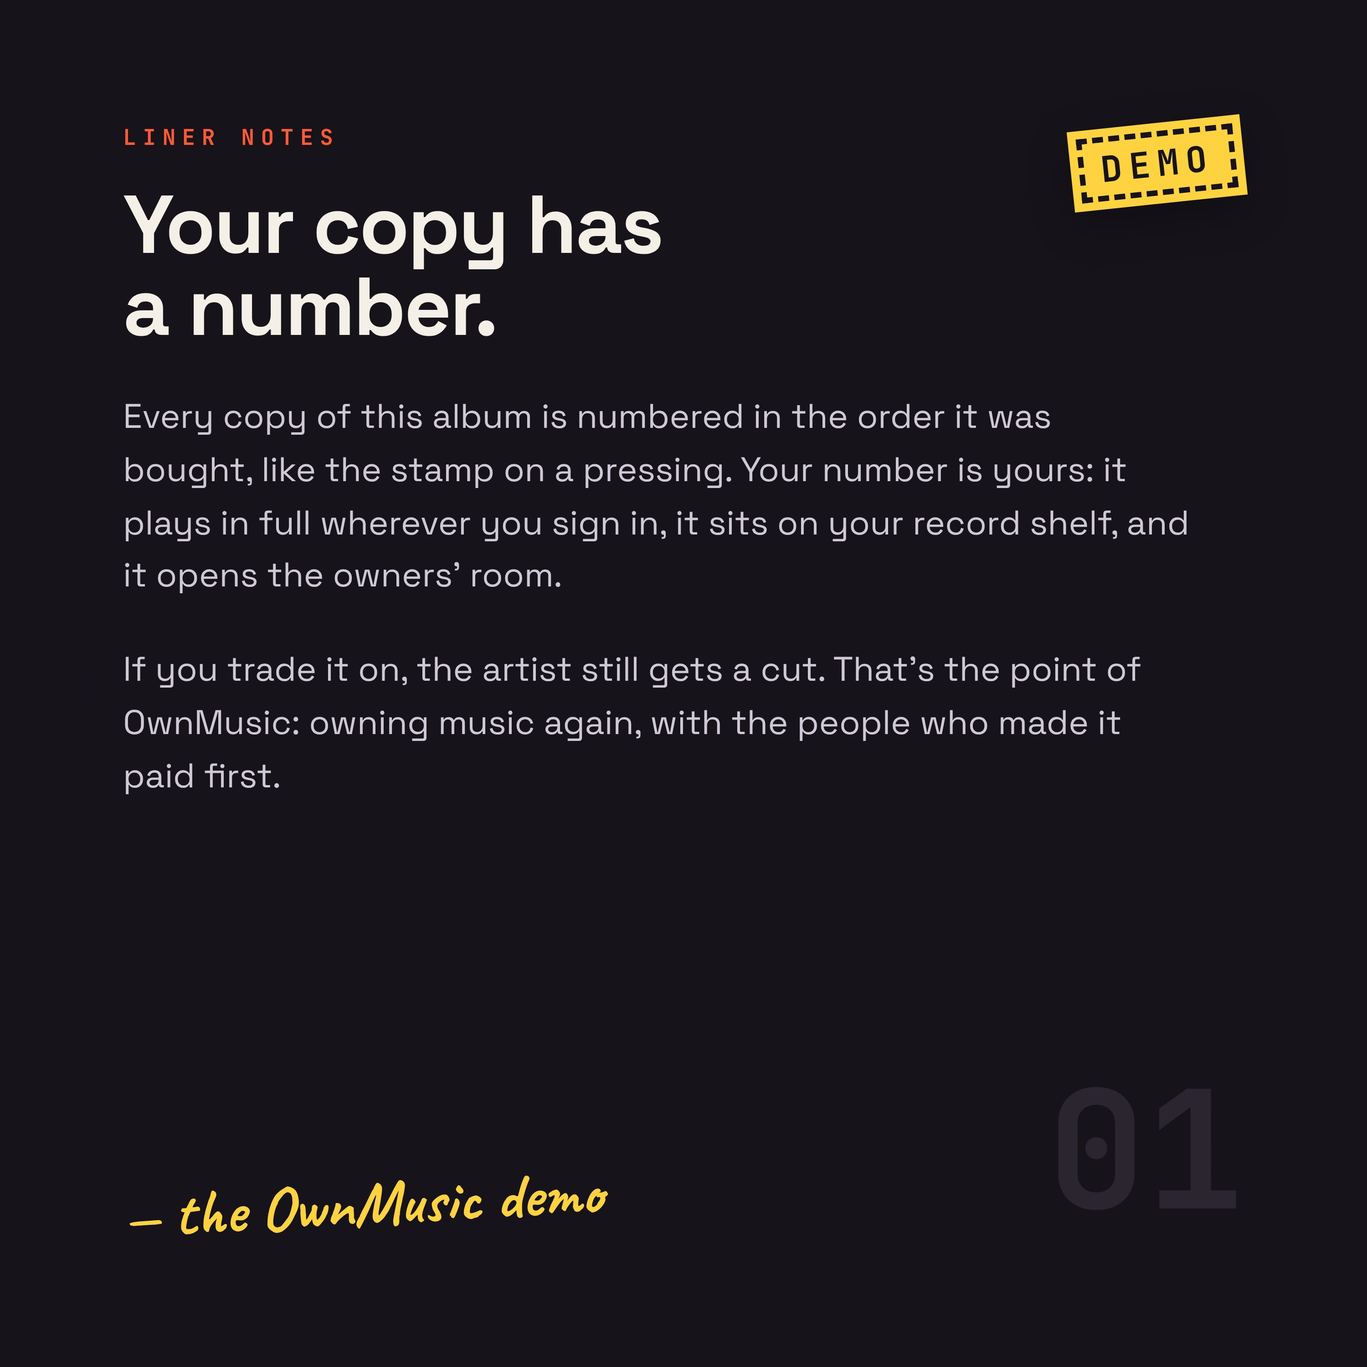
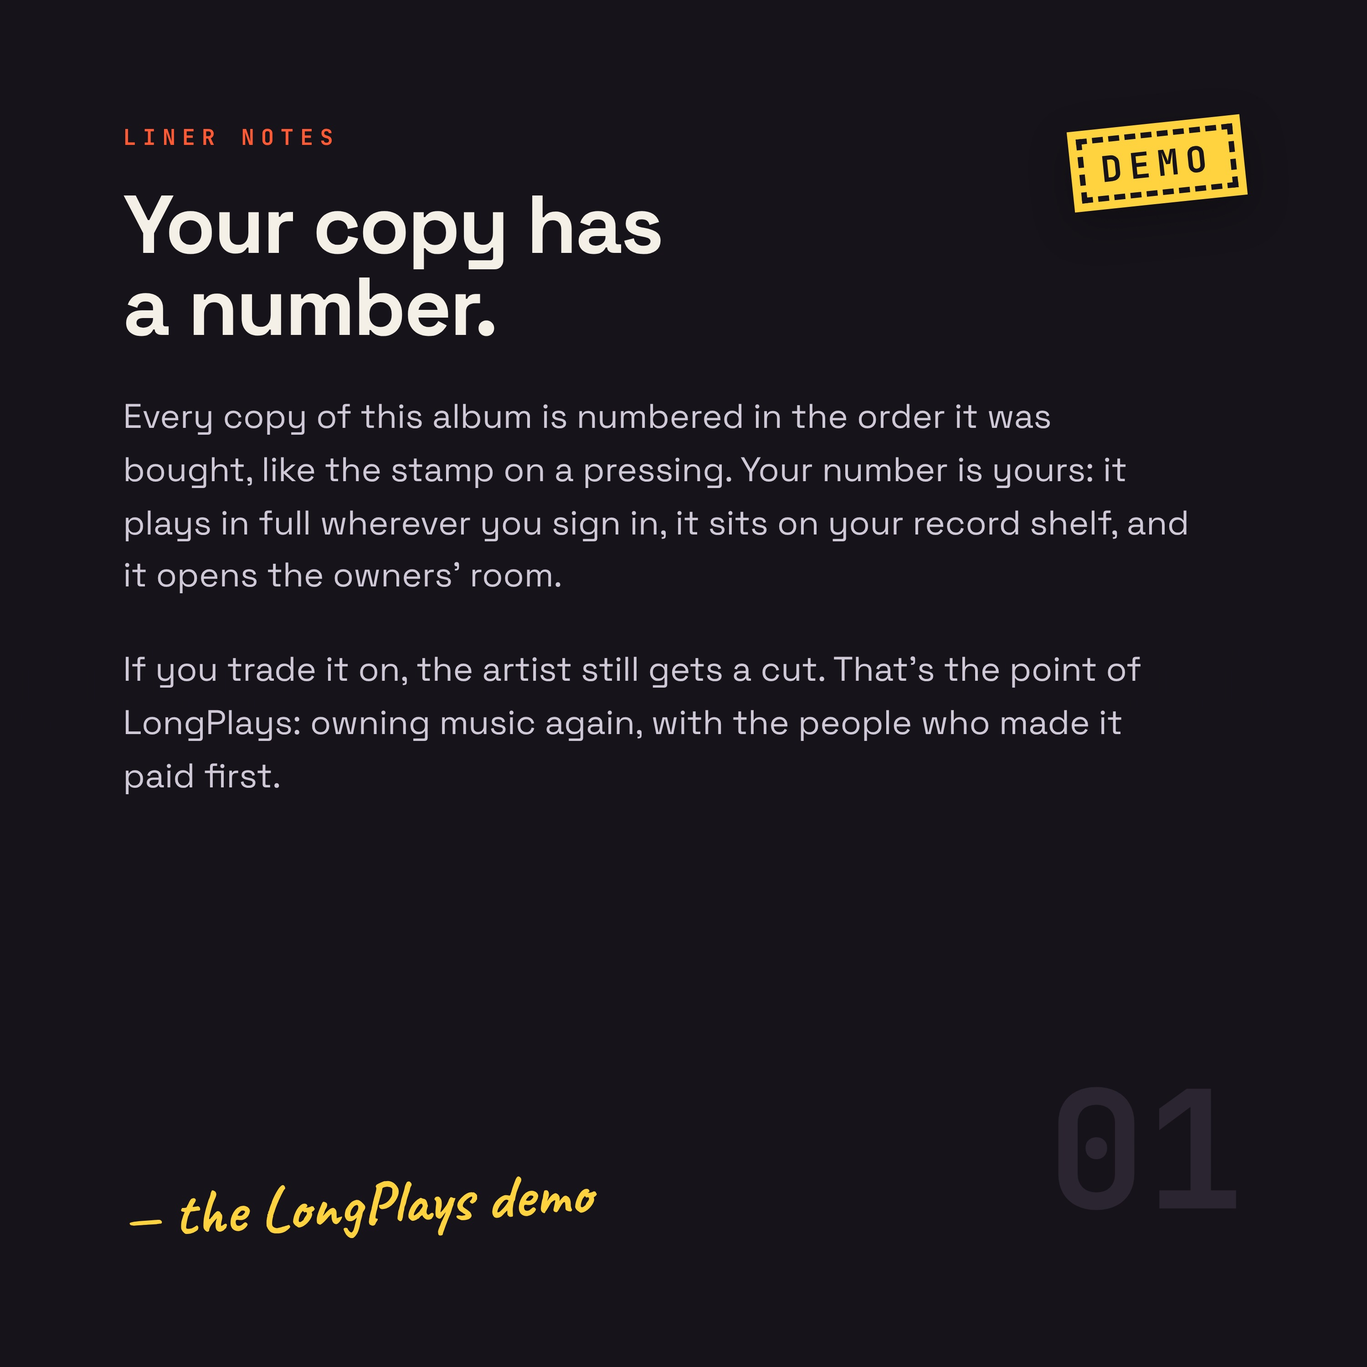
Rename OwnMusic to LongPlays and serve it at longplays.app
Internal names (database file, escrow user, wallet salt) stay as they
were so existing data and fans' wallet addresses don't change. The demo
seed now refreshes its wording and redrawn artwork in place.

Claude-Session: https://claude.ai/code/session_01WRo4DvcQyyiLHpz53ZZQHD

diff --git a/public/app.js b/public/app.js
@@ -198,7 +198,7 @@ async function openAlbum(id, pane = "tracks") {
         <p class="eyebrow">${a.demo ? "Demo album" : "Album"} · ${plural(a.tracks.length, "track")}</p>
         <h2 id="sheet-title">${esc(a.title)}</h2>
         <p class="by">${esc(a.artist)}</p>
-        ${a.demo ? `<p class="demo-note">This is a demo release by a demo artist, here so you can try OwnMusic. Add a free copy, no subscription needed, and it lands on your record shelf and opens the owners' room.</p>` : ""}
+        ${a.demo ? `<p class="demo-note">This is a demo release by a demo artist, here so you can try LongPlays. Add a free copy, no subscription needed, and it lands on your record shelf and opens the owners' room.</p>` : ""}
         ${justBought === a.id ? `<div class="next-steps">
           <strong>${copyNo(a.myCopy)} is yours. Every track now plays in full.</strong>
           <button class="btn btn-primary" data-play="${a.tracks[0]?.id}">▶ Play the full album</button>
@@ -408,7 +408,7 @@ async function loadMarket(a) {
   const mine = m.myCopy;
   const others = m.listings.filter((l) => !l.mine);
   $("#market").innerHTML = `
-    <p class="muted small market-intro">Copies can change hands, but only here. Sell yours, or trade up to a lower number by offering a swap plus a top-up. Every trade sends ${config.resaleArtistPercent}% to ${esc(a.artist)} and ${config.resalePlatformPercent}% to OwnMusic.${a.demo ? " Demo money only." : ""}</p>
+    <p class="muted small market-intro">Copies can change hands, but only here. Sell yours, or trade up to a lower number by offering a swap plus a top-up. Every trade sends ${config.resaleArtistPercent}% to ${esc(a.artist)} and ${config.resalePlatformPercent}% to LongPlays.${a.demo ? " Demo money only." : ""}</p>
     ${mine ? `
       <div class="panel market-mine">
         <div class="market-mine-head">
@@ -444,7 +444,7 @@ async function loadMarket(a) {
     const preview = () => {
       const price = Math.round(Number(form.price.value) * 100) || 0;
       const c = resaleCut(price);
-      $("#list-preview").textContent = `You get ${gbp(c.seller)} · ${gbp(c.artist)} to ${a.artist} · ${gbp(c.platform)} to OwnMusic`;
+      $("#list-preview").textContent = `You get ${gbp(c.seller)} · ${gbp(c.artist)} to ${a.artist} · ${gbp(c.platform)} to LongPlays`;
     };
     form.addEventListener("input", preview);
     preview();
@@ -836,7 +836,7 @@ async function plan() {
           <li><span>Spent on the market</span><span class="r">${gbp(acc.trading.spent)}</span></li>
           <li><span>Earned selling copies</span><span class="r">${gbp(acc.trading.earned)}</span></li>` : ""}
         </ul>
-        ${acc.wallet ? `<p class="muted small wallet">Your copies are NFTs, kept for you in wallet <a href="${nftInfo?.explorer}/address/${acc.wallet}" target="_blank" rel="noopener"><code>${acc.wallet.slice(0, 6)}…${acc.wallet.slice(-4)}</code></a>. Only OwnMusic can move them, so every trade pays the artist.</p>` : ""}
+        ${acc.wallet ? `<p class="muted small wallet">Your copies are NFTs, kept for you in wallet <a href="${nftInfo?.explorer}/address/${acc.wallet}" target="_blank" rel="noopener"><code>${acc.wallet.slice(0, 6)}…${acc.wallet.slice(-4)}</code></a>. Only LongPlays can move them, so every trade pays the artist.</p>` : ""}
       </div>
     </div>
     ${acc.purchases.length ? `
@@ -883,7 +883,7 @@ async function payouts() {
         <div><strong>${gbp(recording)}</strong><i style="background:var(--accent)"></i>Recording</div>
         <div><strong>${gbp(publishing)}</strong><i class="i-song"></i>Songwriting</div>
         <div><strong>${gbp(vat)}</strong><i style="background:var(--vat)"></i>VAT</div>
-        <div><strong>${gbp(platform)}</strong><i style="background:var(--accent-2)"></i>OwnMusic</div>
+        <div><strong>${gbp(platform)}</strong><i style="background:var(--accent-2)"></i>LongPlays</div>
       </div>
     </div>
     <h2 style="margin:32px 0 0">${esc(monthName(p.month))}</h2>
@@ -907,7 +907,7 @@ async function payouts() {
       <ul class="rows">${p.rightsHolders.map((h) => `
         <li><span><strong>${esc(h.name)}</strong> <span class="muted small">· ${h.role === "recording" ? "recording" : "songwriting & publishing"}</span></span><span class="r">${gbp(h.amount)}</span></li>`).join("")}
       </ul>` : ""}
-    <p class="muted small" style="margin-top:14px">When fans trade copies, ${config.resaleArtistPercent}% of the price goes to the release's rights holders and ${config.resalePlatformPercent}% to OwnMusic${p.resaleFees ? ` (${gbp(p.resaleFees)} this month)` : ""}. The seller gets the rest.</p>
+    <p class="muted small" style="margin-top:14px">When fans trade copies, ${config.resaleArtistPercent}% of the price goes to the release's rights holders and ${config.resalePlatformPercent}% to LongPlays${p.resaleFees ? ` (${gbp(p.resaleFees)} this month)` : ""}. The seller gets the rest.</p>
     <p class="muted small" style="margin-top:8px">Subscription money for credits nobody has spent yet is held. It reaches an artist when a fan uses the credit on their album.</p>`;
 }
 

diff --git a/src/demo.ts b/src/demo.ts
@@ -2,7 +2,7 @@ import fs from "node:fs";
 import path from "node:path";
 import crypto from "node:crypto";
 import { AUDIO_DIR, type DB } from "./db.js";
-import { addArtwork, type ArtworkKind } from "./artwork.js";
+import { addArtwork, imageSize, type ArtworkKind } from "./artwork.js";
 
 // A clearly labelled demo release, so anyone visiting the demo can try the whole flow:
 // preview, own a copy, see it on their record shelf, and get into the owners' room.
@@ -10,10 +10,19 @@ export const DEMO_ARTIST = "The Test Pressings";
 export const DEMO_ALBUM = "Ready for Release";
 export const DEMO_TRACK = "Play Me First";
 const SOURCE = path.resolve("demo", "one-i-can-release.m4a");
+const DEMO_BIO =
+  "A demo artist, not a real act. This release is here so you can try LongPlays end to end: preview it, own a numbered copy, and watch it land on your record shelf. No real money changes hands.";
+const DEMO_CREDITS = "Demo album for the LongPlays proof of concept.\nTrack supplied by Ben. All rights reserved.";
 
 /** Seeds the demo artist and album once. Safe to call on every start. */
 export function seedDemo(db: DB) {
-  if (db.prepare(`SELECT 1 FROM artists WHERE demo = 1`).get() || !fs.existsSync(SOURCE)) return;
+  if (db.prepare(`SELECT 1 FROM artists WHERE demo = 1`).get()) {
+    // Keep an already seeded demo's wording current (e.g. after the rename to LongPlays).
+    db.prepare(`UPDATE artists SET bio = ? WHERE demo = 1`).run(DEMO_BIO);
+    db.prepare(`UPDATE albums SET credits = ? WHERE artist_id IN (SELECT id FROM artists WHERE demo = 1)`).run(DEMO_CREDITS);
+    return;
+  }
+  if (!fs.existsSync(SOURCE)) return;
   const file = "demo-one-i-can-release.m4a";
   fs.copyFileSync(SOURCE, path.join(AUDIO_DIR, file));
   db.transaction(() => {
@@ -25,14 +34,14 @@ export function seedDemo(db: DB) {
       db.prepare(`INSERT INTO artists (user_id, name, bio, verified, demo) VALUES (?, ?, ?, 1, 1)`).run(
         userId,
         DEMO_ARTIST,
-        "A demo artist, not a real act. This release is here so you can try OwnMusic end to end: preview it, own a numbered copy, and watch it land on your record shelf. No real money changes hands.",
+        DEMO_BIO,
       ).lastInsertRowid,
     );
     const albumId = Number(
       db.prepare(`INSERT INTO albums (artist_id, title, credits) VALUES (?, ?, ?)`).run(
         artistId,
         DEMO_ALBUM,
-        "Demo album for the OwnMusic proof of concept.\nTrack supplied by Ben. All rights reserved.",
+        DEMO_CREDITS,
       ).lastInsertRowid,
     );
     db.prepare(`INSERT INTO tracks (album_id, position, title, audio_file) VALUES (?, 1, ?, ?)`).run(albumId, DEMO_TRACK, file);
@@ -45,17 +54,31 @@ export function seedDemo(db: DB) {
 // The demo album's package: full-resolution front cover, back cover and a booklet page.
 const DEMO_ARTWORK: [string, ArtworkKind][] = [["cover.jpg", "cover"], ["back-cover.jpg", "back"], ["booklet-01.jpg", "booklet"]];
 
-/** Adds the demo artwork once, including to a demo album seeded before artwork existed. */
+/** Adds the demo artwork, including to a demo album seeded before artwork existed, and refreshes it when the files change. */
 export function seedDemoArtwork(db: DB) {
   const album = db
     .prepare(`SELECT al.id FROM albums al JOIN artists ar ON ar.id = al.artist_id WHERE ar.demo = 1 ORDER BY al.id LIMIT 1`)
     .get() as { id: number } | undefined;
-  if (!album || db.prepare(`SELECT 1 FROM artwork WHERE album_id = ?`).get(album.id)) return;
+  if (!album) return;
   for (const [name, kind] of DEMO_ARTWORK) {
     const source = path.resolve("demo", name);
     if (!fs.existsSync(source)) continue;
     const file = `demo-${name}`;
-    fs.copyFileSync(source, path.join(AUDIO_DIR, file));
-    addArtwork(db, album.id, file, kind, kind === "booklet" ? "Booklet page 1" : undefined);
+    const buf = fs.readFileSync(source);
+    const sha256 = crypto.createHash("sha256").update(buf).digest("hex");
+    const existing = db.prepare(`SELECT id, sha256 FROM artwork WHERE album_id = ? AND file = ?`).get(album.id, file) as
+      | { id: number; sha256: string }
+      | undefined;
+    if (existing?.sha256 === sha256) continue;
+    fs.writeFileSync(path.join(AUDIO_DIR, file), buf);
+    if (!existing) {
+      addArtwork(db, album.id, file, kind, kind === "booklet" ? "Booklet page 1" : undefined);
+      continue;
+    }
+    // The demo artwork was redrawn: refresh it in place, and pin the new version if IPFS is on.
+    const size = imageSize(buf);
+    db.prepare(`UPDATE artwork SET bytes = ?, width = ?, height = ?, sha256 = ?, ipfs_cid = NULL WHERE id = ?`).run(
+      buf.length, size?.width ?? null, size?.height ?? null, sha256, existing.id,
+    );
   }
 }

diff --git a/src/nft.ts b/src/nft.ts
@@ -10,15 +10,15 @@ import { listArtwork } from "./artwork.js";
 // minting new copies and moving tokens when copies change hands on the market.
 //
 // Wallets are hidden from fans. Each fan gets an address derived from the operator key, and
-// only the operator (OwnMusic) can move tokens, so trades can't skip the market and its cut.
+// only the operator (LongPlays) can move tokens, so trades can't skip the market and its cut.
 
 const RPC_URL = process.env.NFT_RPC_URL ?? "https://sepolia.base.org";
 const OPERATOR_KEY = process.env.NFT_OPERATOR_KEY;
-const PUBLIC_URL = (process.env.PUBLIC_URL ?? "https://ownmusic-production.up.railway.app").replace(/\/$/, "");
+const PUBLIC_URL = (process.env.PUBLIC_URL ?? "https://longplays.app").replace(/\/$/, "");
 export const EXPLORER = process.env.NFT_EXPLORER ?? "https://sepolia.basescan.org";
 export const CHAIN_NAME = process.env.NFT_CHAIN_NAME ?? "Base Sepolia (testnet)";
 
-const artifact = JSON.parse(fs.readFileSync(path.resolve("contracts", "OwnMusicCopies.json"), "utf8")) as { abi: object[]; bytecode: string };
+const artifact = JSON.parse(fs.readFileSync(path.resolve("contracts", "LongPlaysCopies.json"), "utf8")) as { abi: object[]; bytecode: string };
 
 export const nftEnabled = () => !!OPERATOR_KEY;
 
@@ -78,7 +78,7 @@ export function tokenMetadata(db: DB, tokenId: number) {
   const front = art.find((a) => a.kind === "cover");
   return {
     name: `${c.title} ${no}`,
-    description: `Copy ${no} of "${c.title}" by ${c.artist} on OwnMusic. It plays in full for whoever owns it and can only change hands on the OwnMusic market.${c.demo ? " This is a demo release." : ""}`,
+    description: `Copy ${no} of "${c.title}" by ${c.artist} on LongPlays. It plays in full for whoever owns it and can only change hands on the LongPlays market.${c.demo ? " This is a demo release." : ""}`,
     image: front?.uri ?? (c.hasCover ? `${PUBLIC_URL}/api/albums/${c.albumId}/cover` : `${PUBLIC_URL}/icons/icon-512.png`),
     external_url: `${PUBLIC_URL}/`,
     attributes: [
@@ -119,7 +119,7 @@ export function startNftWorker(db: DB, intervalMs = 4000) {
         await deployed.waitForDeployment();
         address = await deployed.getAddress();
         setSetting(db, "nft_contract", address);
-        console.log("nft: deployed OwnMusicCopies at", address);
+        console.log("nft: deployed LongPlaysCopies at", address);
       }
       const contract = new Contract(address, artifact.abi, operator);
       // One copy at a time keeps nonces simple; the oldest out-of-step copy goes first.

diff --git a/public/index.html b/public/index.html
@@ -5,7 +5,7 @@
   <meta name="viewport" content="width=device-width, initial-scale=1, viewport-fit=cover" />
   <meta name="theme-color" content="#0e0c12" media="(prefers-color-scheme: dark)" />
   <meta name="theme-color" content="#f5f0e6" media="(prefers-color-scheme: light)" />
-  <title>OwnMusic</title>
+  <title>LongPlays</title>
   <link rel="preconnect" href="https://fonts.googleapis.com" />
   <link rel="preconnect" href="https://fonts.gstatic.com" crossorigin />
   <link href="https://fonts.googleapis.com/css2?family=Space+Grotesk:wght@400;500;600;700&family=JetBrains+Mono:wght@500;700&display=swap" rel="stylesheet" />
@@ -14,15 +14,15 @@
   <link rel="apple-touch-icon" href="/icons/apple-touch-icon.png" />
   <meta name="apple-mobile-web-app-capable" content="yes" />
   <meta name="mobile-web-app-capable" content="yes" />
-  <meta name="apple-mobile-web-app-title" content="OwnMusic" />
+  <meta name="apple-mobile-web-app-title" content="LongPlays" />
   <meta name="apple-mobile-web-app-status-bar-style" content="black-translucent" />
-  <meta name="application-name" content="OwnMusic" />
+  <meta name="application-name" content="LongPlays" />
   <meta name="description" content="Own your music again. Albums you keep, streamed anywhere, with 90% going to the artist." />
   <link rel="stylesheet" href="/style.css" />
 </head>
 <body>
   <header class="top">
-    <a class="logo" href="/" aria-label="OwnMusic home"><span class="logo-disc" aria-hidden="true"></span>OwnMusic</a>
+    <a class="logo" href="/" aria-label="LongPlays home"><span class="logo-disc" aria-hidden="true"></span>LongPlays</a>
     <div id="who"></div>
   </header>
 

diff --git a/src/db.ts b/src/db.ts
@@ -6,6 +6,7 @@ export const DATA_DIR = process.env.DATA_DIR ?? path.resolve("data");
 export const AUDIO_DIR = path.join(DATA_DIR, "audio");
 fs.mkdirSync(AUDIO_DIR, { recursive: true });
 
+// Internal names (this file, the escrow user, the wallet salt) keep the old OwnMusic name so existing data and wallets stay valid.
 // v2: albums + subscriptions. Earlier per-track demo data lives in ownmusic.db and is left alone.
 export function openDb(file = path.join(DATA_DIR, "ownmusic-v2.db")) {
   const db = new Database(file);
@@ -113,7 +114,7 @@ export function openDb(file = path.join(DATA_DIR, "ownmusic-v2.db")) {
   const copyCols = db.prepare(`PRAGMA table_info(copies)`).all() as { name: string }[];
   if (!copyCols.some((c) => c.name === "first_owner_id")) db.exec(`ALTER TABLE copies ADD COLUMN first_owner_id INTEGER REFERENCES users(id)`);
   // Owners can sell a copy outright, or offer it as a swap for another number of the same album
-  // plus a cash top-up. Every trade goes through OwnMusic so the artist and platform cut is always taken.
+  // plus a cash top-up. Every trade goes through LongPlays so the artist and platform cut is always taken.
   db.exec(`
     CREATE TABLE IF NOT EXISTS listings (
       id INTEGER PRIMARY KEY,

diff --git a/demo/artwork-source/back.html b/demo/artwork-source/back.html
@@ -15,8 +15,8 @@ li span{font:500 28px 'JetBrains Mono'}
 <h1>Ready for Release</h1><div class="by">The Test Pressings</div>
 <div class="side">SIDE A</div>
 <ol><li>1. Play Me First<span>2:25</span></li></ol>
-<p class="notes">A demo release for the OwnMusic proof of concept. Not a real artist and not a real album: it's here so you can own a numbered copy, see it on your shelf, join the owners' room and trade it.</p>
-<div class="cat">OM-DEMO-001 · DEMO PRESSING<br>Track supplied by Ben. All rights reserved.<br>Code MIT · ownmusic</div>
+<p class="notes">A demo release for the LongPlays proof of concept. Not a real artist and not a real album: it's here so you can own a numbered copy, see it on your shelf, join the owners' room and trade it.</p>
+<div class="cat">LP-DEMO-001 · DEMO PRESSING<br>Track supplied by Ben. All rights reserved.<br>Code MIT · longplays.app</div>
 <div class="code" id="c"></div>
 <div class="demo">DEMO</div><div class="grain"></div>
 <script>const c=document.getElementById('c');[3,1,2,1,3,2,1,1,3,1,2,3,1,2,1,3,1,1,2,3,2,1].forEach((w,i)=>{const b=document.createElement('i');b.style.width=w*3+'px';b.style.height=(i%5?90:110)+'px';b.style.marginRight=(i%2?6:3)+'px';c.appendChild(b)})</script>

diff --git a/scripts/compile-contract.ts b/scripts/compile-contract.ts
@@ -1,4 +1,4 @@
-// Compiles contracts/OwnMusicCopies.sol into contracts/OwnMusicCopies.json (ABI + bytecode).
+// Compiles contracts/LongPlaysCopies.sol into contracts/LongPlaysCopies.json (ABI + bytecode).
 // The JSON is committed, so the server never needs the compiler. Run: npm run contract:compile
 import fs from "node:fs";
 import path from "node:path";
@@ -6,7 +6,7 @@ import { createRequire } from "node:module";
 
 const require = createRequire(import.meta.url);
 const solc = require("solc");
-const file = "OwnMusicCopies.sol";
+const file = "LongPlaysCopies.sol";
 const input = {
   language: "Solidity",
   sources: { [file]: { content: fs.readFileSync(path.resolve("contracts", file), "utf8") } },
@@ -25,9 +25,9 @@ if (errors.length) {
   for (const e of errors) console.error(e.formattedMessage);
   process.exit(1);
 }
-const c = out.contracts[file].OwnMusicCopies;
+const c = out.contracts[file].LongPlaysCopies;
 fs.writeFileSync(
-  path.resolve("contracts", "OwnMusicCopies.json"),
+  path.resolve("contracts", "LongPlaysCopies.json"),
   JSON.stringify({ compiler: solc.version(), abi: c.abi, bytecode: `0x${c.evm.bytecode.object}` }, null, 2) + "\n",
 );
 console.log("compiled", solc.version());

diff --git a/demo/artwork-source/front.html b/demo/artwork-source/front.html
@@ -13,6 +13,6 @@ body{background:#ff5a36}
 .foot{position:absolute;right:52px;bottom:42px;font:700 18px 'JetBrains Mono';letter-spacing:.2em;color:#16131a}
 .demo{right:48px;top:52px}
 </style></head><body><div class="sleeve"></div>
-<div class="rec"><div class="label"><div class="t">TEST PRESSING</div><div class="h1">Ready for<br>Release</div><div class="h2">side A · demo</div><div class="n">OM-DEMO-001 · 33⅓</div><div class="hole"></div></div></div>
+<div class="rec"><div class="label"><div class="t">TEST PRESSING</div><div class="h1">Ready for<br>Release</div><div class="h2">side A · demo</div><div class="n">LP-DEMO-001 · 33⅓</div><div class="hole"></div></div></div>
 <div class="title">Ready for<br>Release</div><div class="by">The Test Pressings</div>
-<div class="demo">DEMO</div><div class="foot">OWNMUSIC</div><div class="grain"></div></body></html>
+<div class="demo">DEMO</div><div class="foot">LONGPLAYS</div><div class="grain"></div></body></html>

diff --git a/demo/artwork-source/booklet.html b/demo/artwork-source/booklet.html
@@ -10,6 +10,6 @@ p{font:400 25px/1.55 'Space Grotesk';color:#cfc8d6;margin-top:30px;max-width:780
 <div class="eye">LINER NOTES</div>
 <h1>Your copy has<br>a number.</h1>
 <p>Every copy of this album is numbered in the order it was bought, like the stamp on a pressing. Your number is yours: it plays in full wherever you sign in, it sits on your record shelf, and it opens the owners' room.</p>
-<p>If you trade it on, the artist still gets a cut. That's the point of OwnMusic: owning music again, with the people who made it paid first.</p>
-<div class="sig">— the OwnMusic demo</div><div class="n">01</div>
+<p>If you trade it on, the artist still gets a cut. That's the point of LongPlays: owning music again, with the people who made it paid first.</p>
+<div class="sig">— the LongPlays demo</div><div class="n">01</div>
 <div class="demo">DEMO</div><div class="grain"></div></body></html>

diff --git a/src/server.ts b/src/server.ts
@@ -209,7 +209,7 @@ app.get("/api/account", auth, (req, res) => {
   res.json({ ...acc, purchases, trading: tradingSummary(db, uid), wallet: walletFor(uid) });
 });
 
-// The market: owners sell or offer swaps, everyone else browses. Only OwnMusic moves copies.
+// The market: owners sell or offer swaps, everyone else browses. Only LongPlays moves copies.
 app.get("/api/albums/:id/market", (req, res) => {
   const uid = Number(req.signedCookies.uid) || 0;
   const albumId = Number(req.params.id);
@@ -380,4 +380,4 @@ app.post("/api/admin/verify", (req, res) => {
 });
 
 const port = Number(process.env.PORT ?? 3000);
-app.listen(port, () => console.log(`OwnMusic on http://localhost:${port}`));
+app.listen(port, () => console.log(`LongPlays on http://localhost:${port}`));

diff --git a/src/artwork.ts b/src/artwork.ts
@@ -115,7 +115,7 @@ export async function pinNextArtwork(db: DB) {
   if (!a) return false;
   const form = new FormData();
   form.append("file", new Blob([fs.readFileSync(path.join(AUDIO_DIR, a.file))], { type: a.mime }), a.file);
-  form.append("pinataMetadata", JSON.stringify({ name: `ownmusic-album-${a.albumId}-${a.title}` }));
+  form.append("pinataMetadata", JSON.stringify({ name: `longplays-album-${a.albumId}-${a.title}` }));
   const res = await fetch(PINATA_URL, { method: "POST", headers: { Authorization: `Bearer ${PINATA_JWT}` }, body: form });
   if (!res.ok) throw new Error(`IPFS pin failed: ${res.status} ${(await res.text()).slice(0, 200)}`);
   const { IpfsHash } = (await res.json()) as { IpfsHash: string };

diff --git a/test/market.test.ts b/test/market.test.ts
@@ -16,7 +16,7 @@ const oct = new Date("2026-10-10T12:00:00Z");
 const numberOf = (db: ReturnType<typeof openDb>, uid: number, album: number) =>
   (db.prepare(`SELECT number FROM copies WHERE owner_id = ? AND album_id = ?`).get(uid, album) as { number: number } | undefined)?.number;
 
-test("resale split: 10% to the artist, 5% to OwnMusic, the rest to the seller", () => {
+test("resale split: 10% to the artist, 5% to LongPlays, the rest to the seller", () => {
   assert.deepEqual(resaleSplit(2000), { artist: 200, platform: 100, seller: 1700 });
   assert.deepEqual(resaleSplit(333), { artist: 33, platform: 16, seller: 284 });
 });
